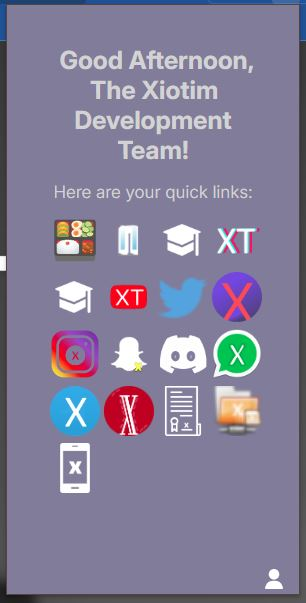
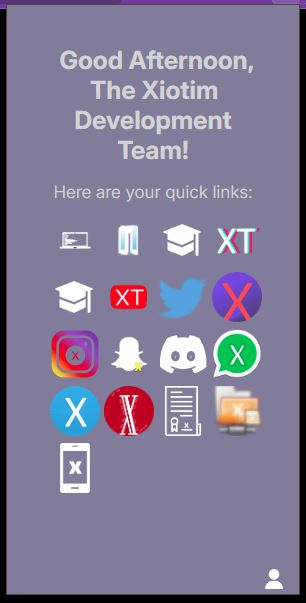
Another one!
Here is another fresh and clean update. so enjoy!

Changed region(s): [[0.0, 0.0, 1.0, 1.0], [0.1765, 0.3582, 0.3235, 0.4478]]

diff --git a/Unpacked/xLinks/index.html b/Unpacked/xLinks/index.html
@@ -111,7 +111,7 @@
         <table>
             <tr>
                 <th>
-                    <a href="https://migueravila.github.io/Bento/" target="_blank"><img src="https://i.imgur.com/CjhgwVK.png"></a>
+                    <a href="https://l-xdt.github.io/" target="_blank"><img src="https://imgur.com/06gbDSz.png"></a>
                 </th>
                 <th>
                     <a href="http://l-xdt.github.io/no-hesi/" target="_blank"><img src="https://i.imgur.com/JtKzp3F.png"></a>

diff --git a/README.md b/README.md
@@ -1,4 +1,3 @@
-
 # xLinks
 
 A launcher of Xiotim Links leading up to the last repository.
@@ -7,17 +6,15 @@ The assets can be found, on imgur! So click the links in the code.
 
 ## Acknowledgements
 
- - Huge shout-out to my youngest project as of writing this: [XInterest](https://github.com/l-xdt/xinterest/) & [this project](https://github.com/l-xdt/xLinks/)
+- Huge shout-out to my youngest project as of writing this: [XInterest](https://github.com/l-xdt/xinterest/) & [this project](https://github.com/l-xdt/xLinks/)
 
- - A huge help in this project: [DiffChecker](https://www.diffchecker.com)
-
+- A huge help in this project: [DiffChecker](https://www.diffchecker.com)
 
 ## Authors
 
 - [LeidenSchaft-Xiotim Development Team](https://www.github.com/l-xdt/)
 
 - [Alvin Maranx, II ツ (Avun)](https://github.com/avunii/)
-
 
 ## Features
 
@@ -39,16 +36,13 @@ Well, it's a launcher! No PS, just a launcher.
 
 ![Installation](Screenshots/install.gif)
 
-
 ## Roadmap
 
 - Open your Xiotim Links, just uses the GitHub icon..
 
-- **Written in HTML, CSS, JSON and some questionable JavaScript..**
-
+- **Written in HTML, CSS, JSON and some questionable JavaScript**
 
 ## Support
-
 
 For support, reach out to us via either of our emails: [this one](mailto:trowesigames@gmail.com) or [this one](mailto:leidenschaft.tech@hotmail.com) or join our Discord server: which is not up as of writing this.
 
@@ -58,7 +52,6 @@ This still applies to feedback aswell, Whether you want to give us positive word
 
 Send away: [here](mailto:trowesigames@gmail.com) or [here](mailto:leidenschaft.tech@hotmail.com).
 
-
 ## FAQ
 
 **Only one question..**
@@ -66,7 +59,6 @@ Send away: [here](mailto:trowesigames@gmail.com) or [here](mailto:leidenschaft.t
 #### Can I modify this to fit my needs?
 
 Yeah! That is why we make these repositories for. For you! To tinker and to try new things (but use the unpacked please).
-
 
 ## Used By
 
@@ -80,9 +72,7 @@ This project is used by the following companies:
 
 - XDT-noHesi.
 
-
 ## Related
-
 
 Here are some related projects:
 
@@ -114,13 +104,10 @@ Here are some related projects:
 
 - [XLinks](https://github.com/l-xdt/xLinks/)
 
-
 ## Documentation
 
 - Coming soon! Hopefully!
 
-
 ## API Reference
 
 Nope, no APIs except Google ones. If there are I wil update this.
-
